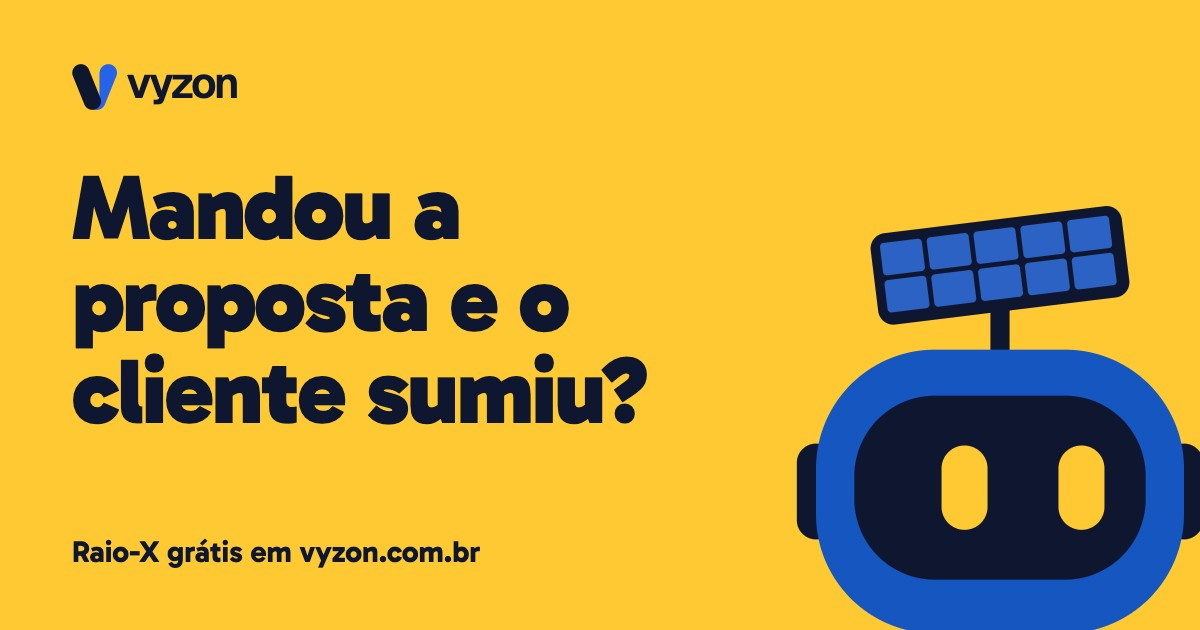
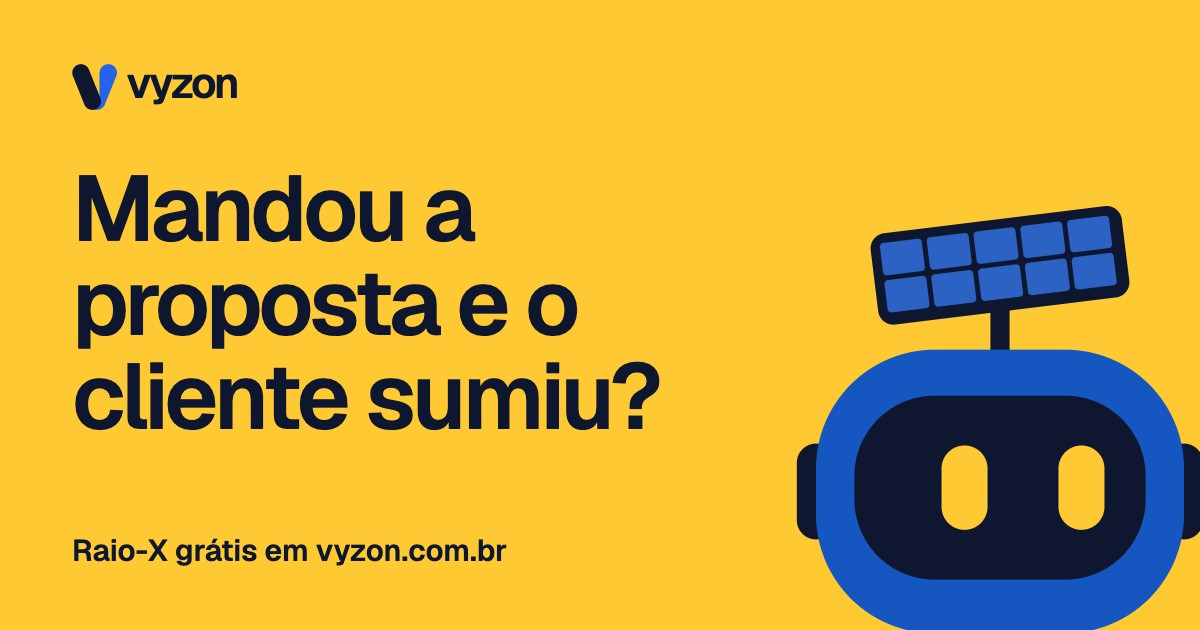
Geist também no reel e na imagem de compartilhamento; ajustes no topo
O título ganha distância do painel amarelo e o celular fica mais curto. O
reel eva-campo foi renderizado de novo com a fonte da home, mesmo áudio.

Changed region(s): [[0.0617, 0.4222, 0.555, 0.6937], [0.0617, 0.2714, 0.4008, 0.3921], [0.0617, 0.8444, 0.4317, 0.9048]]

diff --git a/video-factory/films/eva-campo/index.html b/video-factory/films/eva-campo/index.html
@@ -4,7 +4,7 @@
 <meta charset="utf-8">
 <title>Vyzon · EVA em campo</title>
 <link rel="preconnect" href="https://fonts.googleapis.com">
-<link href="https://fonts.googleapis.com/css2?family=Gabarito:wght@400;500;600;700;800;900&display=block" rel="stylesheet">
+<link href="https://fonts.googleapis.com/css2?family=Geist:wght@400;500;600;700&display=block" rel="stylesheet">
 <script src="https://cdn.jsdelivr.net/npm/gsap@3.13.0/dist/gsap.min.js"></script>
 <script src="https://cdn.jsdelivr.net/npm/gsap@3.13.0/dist/CustomEase.min.js"></script>
 <link rel="stylesheet" href="base.css">
@@ -23,7 +23,7 @@
   #c2 .pdf__nome { font-size: 40px; }
   #c2 .contador { position: absolute; left: 90px; top: 1120px; display: flex; align-items: flex-end; gap: 28px; }
   #c2 .contador .num { font-size: 300px; line-height: .78; color: var(--blue); }
-  #c2 .contador .rot { font: 800 64px/1.04 var(--f-display); letter-spacing: -.02em; padding-bottom: 14px; }
+  #c2 .contador .rot { font: 600 64px/1.04 var(--f-display); letter-spacing: -.02em; padding-bottom: 14px; }
   #c2-eva { --s: 330px; position: absolute; right: 60px; top: 1060px; }
   /* Cena 3: virada no escuro, a EVA sentada no aviso */
   #c3 .conversa { top: 470px; color: var(--ink); }
@@ -45,10 +45,10 @@
   #c6 .cta { position: absolute; left: 90px; right: 90px; top: 430px; display: flex; flex-direction: column; align-items: center; text-align: center; }
   #c6-eva { --s: 360px; margin-bottom: 24px; }
   #c6 .logo { display: flex; align-items: center; gap: 22px; }
-  #c6 .logo span { font: 800 104px var(--f-ui); letter-spacing: -.03em; color: #fff; }
+  #c6 .logo span { font: 600 104px var(--f-ui); letter-spacing: -.03em; color: #fff; }
   #c6 .sub { margin: 36px 0 56px; font-size: 42px; color: #fff; }
-  #c6 .btn { background: var(--sol); color: var(--ink); font-weight: 800; }
-  #c6 .url { margin-top: 40px; font: 800 64px var(--f-num); color: #fff; }
+  #c6 .btn { background: var(--sol); color: var(--ink); font-weight: 600; }
+  #c6 .url { margin-top: 40px; font: 600 64px var(--f-num); color: #fff; }
 </style>
 </head>
 <body>

diff --git a/index.html b/index.html
@@ -81,7 +81,7 @@
   <meta property="og:title" content="Propostas de energia solar paradas no WhatsApp | Vyzon" />
   <meta property="og:description"
     content="Mandou o orçamento de energia solar e o cliente sumiu? O Vyzon mostra quais clientes pararam de responder no seu WhatsApp e deixa a mensagem pronta para chamar de novo. Raio-X grátis." />
-  <meta property="og:image" content="https://vyzon.com.br/og-image.jpg?v=8" />
+  <meta property="og:image" content="https://vyzon.com.br/og-image.jpg?v=9" />
   <meta property="og:image:width" content="1200" />
   <meta property="og:image:height" content="630" />
   <meta property="og:locale" content="pt_BR" />
@@ -93,7 +93,7 @@
   <meta name="twitter:title" content="Propostas de energia solar paradas no WhatsApp | Vyzon" />
   <meta name="twitter:description"
     content="Mandou o orçamento de energia solar e o cliente sumiu? O Vyzon mostra quais clientes pararam de responder no seu WhatsApp e deixa a mensagem pronta para chamar de novo. Raio-X grátis." />
-  <meta name="twitter:image" content="https://vyzon.com.br/og-image.jpg?v=8" />
+  <meta name="twitter:image" content="https://vyzon.com.br/og-image.jpg?v=9" />
   <meta name="twitter:creator" content="@vyzonapp" />
 
   <!-- Sora (brand font — Vyzon wordmark) + Inter + Satoshi self-hosted em /public/fonts/.
@@ -227,7 +227,7 @@
       "Rascunho não aprovado expira em 48 horas",
       "Conexão do WhatsApp por QR code, sem trocar de número"
     ],
-    "screenshot": "https://vyzon.com.br/og-image.jpg?v=8"
+    "screenshot": "https://vyzon.com.br/og-image.jpg?v=9"
   }
   </script>
   <script type="application/ld+json">

diff --git a/video-factory/films/eva-campo/tema.css b/video-factory/films/eva-campo/tema.css
@@ -1,20 +1,20 @@
 /* Registro "EVA em campo" (conceito A, 01/11/2026): a EVA é a estrela, em cor
    chapada. Vem depois do base.css do molde-vyzon-solar e troca só os tokens.
    Sol #ffc933 e noite #0f1730 dão os fundos fortes, creme #f3efe4 as cenas de
-   conversa. Gabarito é a família única. Marca-texto em fundo sol é branco. */
+   conversa. Geist, a fonte do app e da home, em tudo. Marca-texto em fundo sol é branco. */
 :root {
   --paper: #f3efe4; --ink: #0f1730; --muted: #3b4560; --subtle: #566079; --line: #dcd6c8;
   --blue: #1556c0; --marker: #ffc933; --sol: #ffc933; --noite: #0f1730;
-  --f-display: 'Gabarito', system-ui, sans-serif;
-  --f-num: 'Gabarito', system-ui, sans-serif;
-  --f-ui: 'Gabarito', system-ui, sans-serif;
+  --f-display: 'Geist', system-ui, sans-serif;
+  --f-num: 'Geist', system-ui, sans-serif;
+  --f-ui: 'Geist', system-ui, sans-serif;
 }
-.hl { font-weight: 900; letter-spacing: -.02em; }
-.num { font-weight: 900; }
+.hl { font-weight: 600; letter-spacing: -.04em; }
+.num { font-weight: 600; }
 .cena--sol { background: var(--sol); --marker: #fff; }
 .cena--noite { background: var(--noite); color: #fff; }
 .cena--creme { background: var(--paper); }
 #legenda { color: var(--ink); }
-#legenda .leg { color: inherit; font-weight: 900; }
+#legenda .leg { color: inherit; font-weight: 600; }
 /* a EVA sentada na borda de cima de um cartão */
 .sentada { position: absolute; z-index: 2; }

diff --git a/video-factory/molde-eva-campo/tema.css b/video-factory/molde-eva-campo/tema.css
@@ -1,20 +1,20 @@
 /* Registro "EVA em campo" (conceito A, 01/11/2026): a EVA é a estrela, em cor
    chapada. Vem depois do base.css do molde-vyzon-solar e troca só os tokens.
    Sol #ffc933 e noite #0f1730 dão os fundos fortes, creme #f3efe4 as cenas de
-   conversa. Gabarito é a família única. Marca-texto em fundo sol é branco. */
+   conversa. Geist, a fonte do app e da home, em tudo. Marca-texto em fundo sol é branco. */
 :root {
   --paper: #f3efe4; --ink: #0f1730; --muted: #3b4560; --subtle: #566079; --line: #dcd6c8;
   --blue: #1556c0; --marker: #ffc933; --sol: #ffc933; --noite: #0f1730;
-  --f-display: 'Gabarito', system-ui, sans-serif;
-  --f-num: 'Gabarito', system-ui, sans-serif;
-  --f-ui: 'Gabarito', system-ui, sans-serif;
+  --f-display: 'Geist', system-ui, sans-serif;
+  --f-num: 'Geist', system-ui, sans-serif;
+  --f-ui: 'Geist', system-ui, sans-serif;
 }
-.hl { font-weight: 900; letter-spacing: -.02em; }
-.num { font-weight: 900; }
+.hl { font-weight: 600; letter-spacing: -.04em; }
+.num { font-weight: 600; }
 .cena--sol { background: var(--sol); --marker: #fff; }
 .cena--noite { background: var(--noite); color: #fff; }
 .cena--creme { background: var(--paper); }
 #legenda { color: var(--ink); }
-#legenda .leg { color: inherit; font-weight: 900; }
+#legenda .leg { color: inherit; font-weight: 600; }
 /* a EVA sentada na borda de cima de um cartão */
 .sentada { position: absolute; z-index: 2; }

diff --git a/src/pages/SolarLanding.tsx b/src/pages/SolarLanding.tsx
@@ -276,7 +276,7 @@ const Hero = ({ copy, onCta, onWhatsapp }: { copy: AngleCopy; onCta: () => void;
             {/* Letra forte em vez da serifa editorial: as páginas que convertem com
                 integrador (Heliux, Azume, InfinitePay) falam alto e direto. */}
             <h1
-                className="vs-display mt-4 landing-fade-in-up-lg landing-delay-100"
+                className="vs-display mt-4 max-w-[530px] landing-fade-in-up-lg landing-delay-100"
                 style={{ fontSize: "clamp(2.25rem, 3.75vw, 3.2rem)", lineHeight: 1.04, textWrap: "pretty" }}
             >
                 {copy.h1} <span className="vs-marca vs-marca--draw">{copy.h1Accent}</span>
@@ -314,7 +314,7 @@ const WhatsappCta = ({ placement, sol, children }: { placement: () => void; sol?
 // A caixa reserva o espaço do palco, sem CLS.
 const AvisoNoWhatsApp = () => (
     <figure className="vs-palco mx-auto w-full max-w-[420px] self-end landing-fade-in-up-lg landing-delay-200" aria-label="Exemplo: o aviso que chega no seu WhatsApp no 2º dia">
-        <div className="relative aspect-[420/640]">
+        <div className="relative aspect-[420/640] md:aspect-[420/600]">
             <Suspense fallback={null}>
                 <AvisoDemo />
             </Suspense>

diff --git a/src/components/landing/AvisoDemo.tsx b/src/components/landing/AvisoDemo.tsx
@@ -33,7 +33,7 @@ export default function AvisoDemo() {
     return (
         <Stage
             width={420}
-            height={640}
+            height={600}
             compact={{ below: 400, width: 343, height: 600 }}
             initial={inicio}
             poster={poster}

diff --git a/.claude/skills/vyzon-product-film/SKILL.md b/.claude/skills/vyzon-product-film/SKILL.md
@@ -36,7 +36,7 @@ Leia antes do primeiro frame.
     objetos. Molde: `video-factory/molde-vyzon-solar`. Substitui o antigo Papel.
   - **EVA em campo** (padrão desde 01/11/2026, mesmo sistema da home, bloco LP.9
     de `src/index.css`): a EVA grande em cor chapada, sol
-    `#ffc933`, noite `#0f1730` e creme `#f3efe4`, Gabarito como família única.
+    `#ffc933`, noite `#0f1730` e creme `#f3efe4`, Geist como família única.
     Molde: `molde-vyzon-solar` mais `molde-eva-campo/tema.css`.
   - **Noite azul** (aprovado em 17/10/2026): azul-noite, borda acesa, um brilho
     por cena. O molde ficou no PC antigo e não foi refeito no Mac.

diff --git a/.claude/skills/vyzon-product-film/references/vyzon-product-film-style-guide.md b/.claude/skills/vyzon-product-film/references/vyzon-product-film-style-guide.md
@@ -18,7 +18,7 @@ A tela do produto é a heroína. Tipografia é a coadjuvante. O resto desaparece
 
 O mesmo sistema da home (bloco LP.9 de `src/index.css`). Fundos chapados por cena:
 sol `#FFC933` no gancho e no payoff, noite `#0F1730` na virada e no CTA, creme
-`#F3EFE4` nas conversas. Gabarito como família única, marca-texto branco em fundo
+`#F3EFE4` nas conversas. Geist, a fonte do app e da home, em tudo, marca-texto branco em fundo
 sol. A EVA é a estrela: grande no gancho e no payoff, sentada nos cartões no meio.
 Exemplo: `films/eva-campo`.
 
